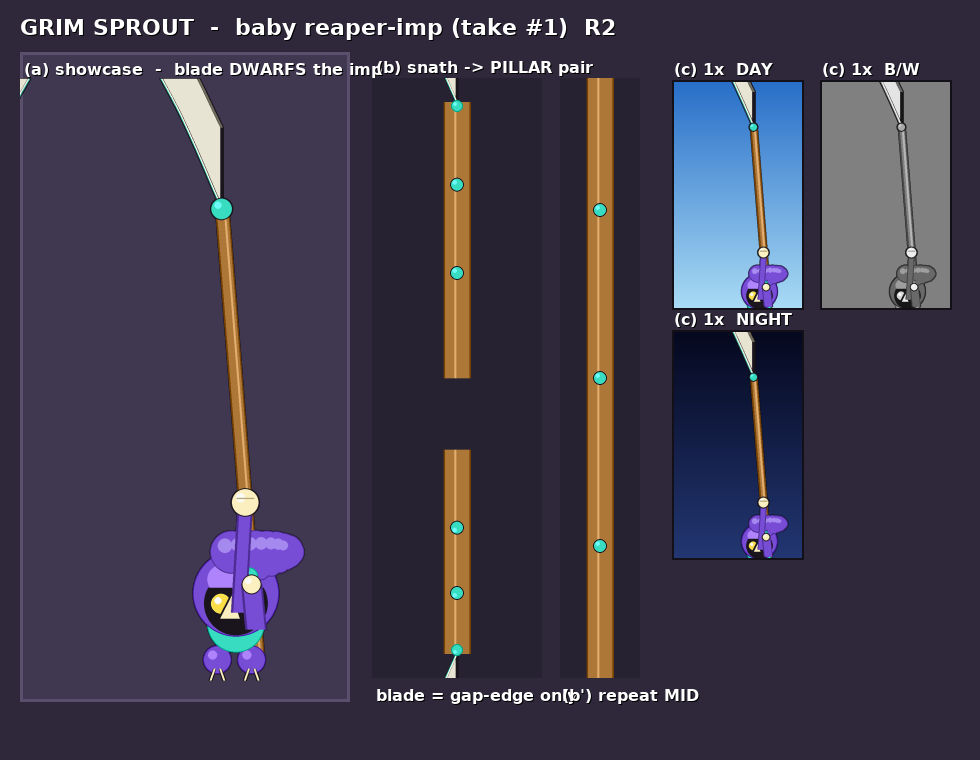
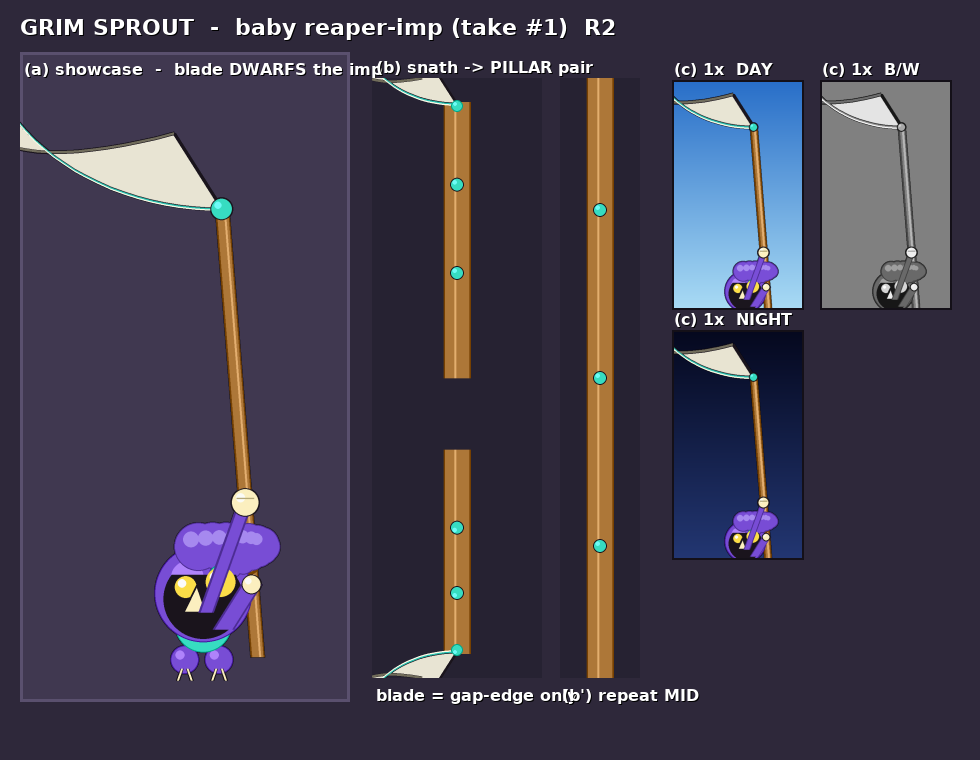
skybit-reaper: dr-quill r2 sheet + tick-tock/dr-quill round-2 critiques

diff --git a/tools/render_skybit_reaper_big_reapy.py b/tools/render_skybit_reaper_big_reapy.py
@@ -551,7 +551,8 @@ def main():
     pygame.draw.rect(sheet, (90, 86, 104), panelC, 2, border_radius=8)
     _label(sheet, font, "(c) 1x in-game scale  —  day / night legibility", panelC.x + 8, panelC.y + 8)
 
-    boss1x, feet = build_big_reapy(scale=0.66, ss=3)   # ~ scrolling-route size
+    boss1x, feet = build_big_reapy(scale=0.66, ss=3)              # ~ scrolling size
+    boss1x_n, _ = build_big_reapy(scale=0.66, ss=3, night=True)   # lit-eye night cut
     day = _sky(180, 250, (40, 110, 200), (90, 170, 230), (170, 220, 245))
     night = _sky(180, 250, (5, 8, 30), (15, 25, 70), (35, 55, 115))
     # A couple of night stars so the dark panel reads as the night sky.
@@ -563,8 +564,8 @@ def main():
     sheet.blit(night, (panelC.x + 200, dy))
     sheet.blit(boss1x, (panelC.x + 14 + 90 - boss1x.get_width() // 2,
                         dy + 250 - boss1x.get_height() - 6))
-    sheet.blit(boss1x, (panelC.x + 200 + 90 - boss1x.get_width() // 2,
-                        dy + 250 - boss1x.get_height() - 6))
+    sheet.blit(boss1x_n, (panelC.x + 200 + 90 - boss1x_n.get_width() // 2,
+                          dy + 250 - boss1x_n.get_height() - 6))
     _label(sheet, small, "DAY", panelC.x + 14 + 6, dy + 6, (20, 20, 30))
     _label(sheet, small, "NIGHT", panelC.x + 200 + 6, dy + 6, (210, 220, 255))
 
@@ -587,7 +588,7 @@ def main():
 
     # — Footer caption: the scary-cute thesis.
     _label(sheet, small,
-           "scary-cute: big round sockets + lifted bone brows + a wide square-toothed jack-grin read 'delighted puppy', not horror.",
+           "scary-cute: big round sockets + lifted bone brows + a 5-tooth bowed-UP jack-grin read 'delighted puppy', not horror.",
            18, SH - 124, (210, 206, 220))
     _label(sheet, small,
            "house style: FLAT fills, hard ink keyline grown from the alpha mask, dark-core->fill->top-left-sheen triad, ss=3 -> smoothscale.",
@@ -600,7 +601,7 @@ def main():
                            "skybit_reaper", "big_reapy")
     out_dir = os.path.abspath(out_dir)
     os.makedirs(out_dir, exist_ok=True)
-    out_path = os.path.join(out_dir, "round_1.png")
+    out_path = os.path.join(out_dir, "round_2.png")
     pygame.image.save(sheet, out_path)
     print("wrote", out_path)
 

diff --git a/tools/render_skybit_reaper_the_hollow.py b/tools/render_skybit_reaper_the_hollow.py
@@ -420,10 +420,15 @@ def _sky_panel(w, h, night):
 
 def _boss_bitmap(disp_w, disp_h, ss, **kw):
     """Render the boss supersampled then smoothscale down (house AA discipline),
-    with the 1px outline grown on the downscaled sprite."""
+    with the 1px outline grown on the downscaled sprite. WHY r2: the squatter,
+    wider build + its held snuffer-pole (which rises ABOVE the head) need more
+    headroom and right-margin than r1 — figure is shifted left and the feet
+    dropped so the whole prop-and-bell reads inside the cell without clipping."""
     big = pygame.Surface((disp_w * ss, disp_h * ss), pygame.SRCALPHA)
-    draw_hollow(big, int(disp_w * 0.46 * ss), int((disp_h - 6) * ss),
-                scale=disp_h / 220.0, ss=ss, **kw)
+    # Scale off the smaller axis so the wide hem + the tall held pole both fit.
+    scale = min(disp_w / 270.0, disp_h / 250.0)
+    draw_hollow(big, int(disp_w * 0.42 * ss), int((disp_h - 6) * ss),
+                scale=scale, ss=ss, **kw)
     small = pygame.transform.smoothscale(big, (disp_w, disp_h))
     return _add_outline(small)
 

diff --git a/tools/render_skybit_reaper_grim_sprout.py b/tools/render_skybit_reaper_grim_sprout.py
@@ -127,7 +127,7 @@ def build_grim_sprout(scale=1.0, ss=3):
     s = pygame.Surface((BW, BH), pygame.SRCALPHA)
 
     # Tiny imp, anchored low. Body deliberately small vs the prop.
-    body_cx = int(BW * 0.64)
+    body_cx = int(BW * 0.55)
     feet_y = int(BH * 0.955)
     hood_r = int(34 * scale * ss)              # small head, but big enough to carry a face
     belly_r = int(20 * scale * ss)
@@ -262,10 +262,10 @@ def build_grim_sprout(scale=1.0, ss=3):
                            max(1, int(er * 0.42)))
     # ONE oversized cream FANG offset to the imp's left of center, poking UP over
     # the hood-shadow lip — the scary-cute signature beat, now bold + legible.
-    fangx = fcx - int(cav_r * 0.20)
-    fangy = fcy + int(cav_r * 0.50)
+    fangx = fcx - int(cav_r * 0.22)
+    fangy = fcy + int(cav_r * 0.34)
     fang_w = int(8 * scale * ss)
-    fang_h = int(18 * scale * ss)
+    fang_h = int(19 * scale * ss)
     fang = [(fangx - fang_w, fangy), (fangx + fang_w, fangy),
             (fangx + int(fang_w * 0.2), fangy - fang_h)]
     pygame.draw.polygon(s, BONE, fang)

diff --git a/docs/skybit_reaper/tick_tock/critique_r2.md b/docs/skybit_reaper/tick_tock/critique_r2.md
@@ -1,0 +1,101 @@
+# TICK-TOCK — Art-Director Critique, Round 2 (final loop critique)
+
+VERDICT: ITERATE
+
+Round 2 is a large, correct step. Every headline failure from R1 was hit
+and mostly fixed: the robe now reads as a confident, saturated blue-green
+that sits a clear value-step ABOVE the night sky (the merge is GONE — see
+the night inset, where the body now holds its own silhouette without the
+amber hourglass carrying it), the fill-forward de-inking worked (the body
+reads as flat color, not a cored slab), the face crescent is bigger and now
+sits in a LIT dark-teal recess instead of a black hole, the sash reads, and
+the cradling arm is one continuous sleeve. This is shippable-adjacent. I'm
+calling ITERATE not SHIP-READY only because three precise, cheap finishing
+beats remain — and the GD has exactly one pass left to land them. None are
+structural; this is polish, not rework.
+
+---
+
+## Ranking — strongest -> weakest (this round)
+
+1. **Robe value/saturation + night legibility** — FIXED, and it's the win.
+   The blue-green is bold, mid-value, and clearly separated from both biomes.
+   This was the load-bearing failure and it's resolved. Keep exactly this.
+2. **Hourglass-staff prop + pillar mirror** — still the strongest single
+   asset; unchanged and clean.
+3. **The face cavity / crescent** — much improved (lit recess, bigger face)
+   but the FOCAL HIERARCHY is still slightly inverted at 1x (see FIX 1).
+4. **Cradling arm** — now a continuous sleeve; reads as clasping the pole.
+   Good. Minor seam note below.
+5. **The smirk read at 1x** — the weakest remaining beat. The menace/charm
+   still doesn't fully survive to the smallest size (see FIX 1).
+
+---
+
+## Against the rubric
+
+1. **Dark/grim drift — FIXED.** This no longer reads grim, dark, or
+   desaturated. It reads as a bold teal chibi clerk. Mission accomplished on
+   the round's core purpose.
+2. **House-style fidelity — PASS.** Flat fills now dominate, 1px keyline +
+   outline pop, bold palette, triad sheen present. Sits beside the warren
+   clown fidelity bar now.
+3. **Scary-cute menace — PARTIAL.** At showcase scale the smug clerk reads.
+   At 1x it still leans "cute hooded figure" — the smirk doesn't quite carry
+   the DEATH beat small (FIX 1). Close, not yet locked.
+4. **Prop->pillar mirror — PASS.** Clean, tileable, unmistakably hourglass.
+   Confirm half-width parity held (FIX 3).
+5. **1x legibility — PASS (day) / PASS (night).** Both insets hold the
+   silhouette and color now. The one soft spot: the amber hourglass still
+   slightly out-shouts the head at 1x (FIX 1).
+6. **Distinctness — PASS.** Squat trapezoid + tall hourglass-staff stays
+   unique against the other four. No collision.
+
+---
+
+## KEEP
+- The new robe blue-green and its value separation from BOTH skies. Do not
+  touch this — it is the whole point of the round and it's right.
+- The fill-forward de-inking. The body finally reads as confident flat color.
+- The lit dark-teal hood cavity — the face now reads as a bright shape in a
+  colored recess.
+- The continuous cradling sleeve, the rose sash + brass clasp, the
+  prop/pillar pinch-eye, the draining-sand storytelling beat.
+
+## FIX — final-round punch list (prioritized, all cheap)
+
+1. **WIN THE FACE OVER THE HOURGLASS AT 1x — top priority.** The head now
+   reads at showcase scale, but in BOTH 1x insets the eye still lands on the
+   bright amber hourglass first and the face second. Two-part fix: (a) nudge
+   the hourglass glow/amber alpha down one more notch so it stops being the
+   single brightest mass, and (b) confirm the smirk's two half-lid slivers +
+   one cocked mouth line survive at the 1x inset — if they smear to a flat
+   smudge, thicken/space them by ~1px and drop any remaining nose tick. The
+   character is the SMIRK; it must be the first thing read, even tiny.
+
+2. **PUSH MENACE INTO THE BROW/LID, not the palette.** At showcase the face
+   currently reads more "pleasant" than "smug-clerk-who-runs-out-your-clock."
+   Steepen the half-lid bar a hair and deepen the cocked mouth corner so the
+   expression is unmistakably a knowing smirk, not a neutral smile. This is
+   the last few percent of scary-cute; the construction is all there.
+
+3. **CONFIRM HOURGLASS HALF-WIDTH PARITY** between the boss staff and the two
+   pillar piers (carried over from R1 #7 — verify it actually landed; the
+   piers still look marginally wider than the staff glass). The "one literal
+   shape" promise must read identical at a glance.
+
+4. **CRADLING-SLEEVE SEAM.** The sleeve is now continuous (good) but the
+   elbow where it meets the shoulder has a slightly flat dark facet that
+   reads as a stuck-on tab at showcase scale. Soften that one seam so the arm
+   springs cleanly from the shoulder mass.
+
+5. **GRAYSCALE RE-CONFIRM.** After 1-2, desaturate: face should be the
+   highest-contrast read on the figure, hourglass second. If the glass still
+   wins in grayscale, pull its value down until the head leads.
+
+If 1 and 2 land — face leads the read and the smirk reads as smug DEATH at
+1x — this ships. Everything else is verification.
+
+## References
+- `docs/warren_clown/round_17_final.png` — fidelity bar; the robe now matches
+  this fill-forward punch. Match the same face-leads-the-eye focal discipline.

diff --git a/docs/skybit_reaper/dr_quill/critique_r2.md b/docs/skybit_reaper/dr_quill/critique_r2.md
@@ -1,0 +1,62 @@
+# DR. QUILL — Round 2 critique
+
+`VERDICT: SHIP-READY`
+
+This clears the bar. Every one of the five round-1 directives landed, and the
+fixes didn't cost any of the round-1 wins. The figure now reads as a distinct,
+scary-cute chibi plague-doctor BIRD at showcase AND at 1x on both skies, the
+beak owns the silhouette and separates cleanly from the hero macaw, the vial
+finally reads chartreuse-in-magenta, and the prop->pillar story (green post +
+gold banding + sickly-green glow at the gap mouth) lands. Lock it.
+
+## Directive-by-directive (all five resolved)
+
+1. **Beak — FIXED, and it's the win of the round.** Now a long, near-horizontal
+   straight cone exiting face center between the goggles, with keylines + dorsal
+   sheen. It is the dominant silhouette gesture and survives at 1x in C and D as
+   a clear forward spike. This is unmistakably NOT the hero's short hook — the
+   macaw-cousin separator is now doing its job. Exactly the spec.
+2. **Vial color stack — FIXED.** The bulb now reads magenta glass with an opaque
+   chartreuse pool in the lower 2/3 and the green halo pushed outside only. The
+   two-color "sickly tincture" contrast sells. Same correct stack on the boss's
+   cradle vial. The pool no longer muddies to magenta.
+3. **1x figure separation — FIXED.** Head/hat are a deeper green than the robe,
+   so the head no longer dissolves into the body; the brighter violet cape with
+   its rim now survives the night sky in D; talons are thicker and hold. The
+   figure reads as a distinct Death silhouette at gameplay scale on both skies,
+   not just floating eyes.
+4. **Prop->pillar — FIXED and clearly better than the round-1 gold post.** The
+   green post + gold banding + gold collar ferrule reads as Dr. Quill's pillar,
+   not a stray sandstone pillar, and the green glow burst at the gap mouth is the
+   signature read. The gap-edge cluster reads as a stoppered vial at 1x in C/D.
+5. **Brim/collar/staff overlap — FIXED.** Staff moved clear of the brim; the brim
+   ellipse now reads as one clean disc and the right side is tidy.
+
+## KEEP (do not touch in the final pass)
+- The goggle-lens face (gold rim -> ink -> magenta glass -> pink pinprick +
+  catchlight). Still the charm engine; survives to 1x. Untouched, good.
+- The long straight beak geometry and its dorsal sheen — this is the identity.
+- The deeper-green-head vs robe value break — it's carrying the 1x silhouette.
+- The chartreuse-in-magenta vial stack on BOTH the prop and the cradle vial.
+- Flat-fill + ink keyline + triad discipline. Zero off-style drift; the
+  grim/desaturated correction is fully holding.
+
+## Distinctness check (vs Grim Sprout / Big Reapy / Tick-Tock / The Hollow)
+Clears it. The brim-hat + goggle-mask + long straight plague-beak +
+apothecary-green/waxen-gold/magenta triad is a silhouette and palette unlike a
+sprout, a scythe-reaper, a clock, or a hollow. No collision.
+
+## Optional micro-polish for the final pass (none are blockers — ship even if skipped)
+1. **Cradle vial at showcase scale (cell A).** The boss's held vial is the one
+   element slightly lost against the green robe — a touch more of the external
+   green halo or one extra px of ink keyline around it would let it pop without
+   competing with the face. Nice-to-have, not required.
+2. **Night-sky cape rim (cell D).** The violet cape now survives, but if there's
+   a cheap win, nudging the cape rim ~one value brighter would buy a hair more
+   separation on the darkest night frames. Already acceptable as-is.
+3. **Talon read at 1x (C/D).** Talons hold now; if trivial, one more px of
+   keyline weight would fully seal the bird-foot read at the smallest scale.
+   Cosmetic only.
+
+These are gilding. The work is ship-ready as it stands; treat the final GD pass
+as optional touch-up, not a required fix.
